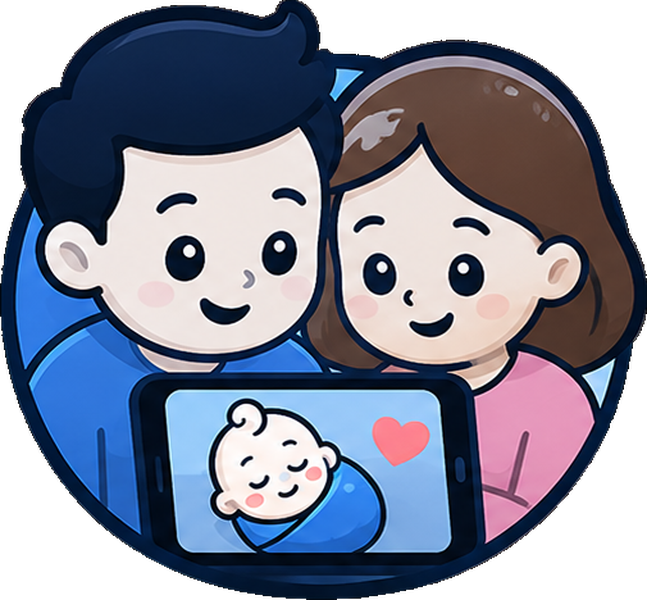
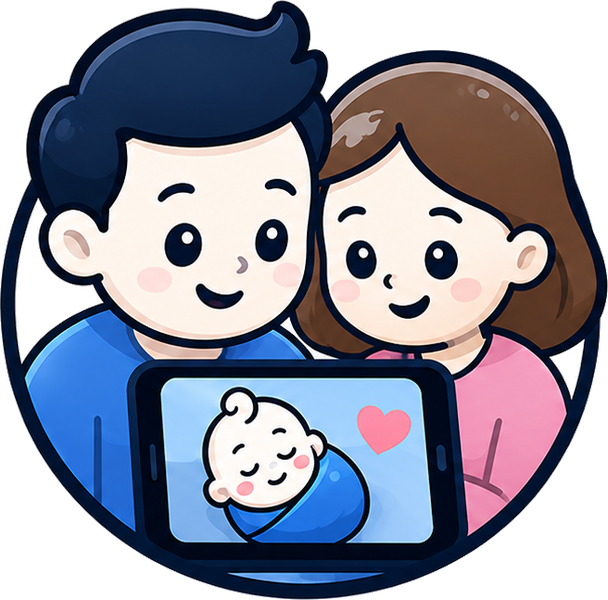
Use the cleaner uploaded parent-unit artwork with a proper cutout
Replace the parent-unit illustration with oudersiconhoofdpagina.png (the
sharper re-upload). Its background was near-white rather than solid black
like the earlier version, so it needed a different cutout pass: border
flood-fill for the outer background plus a second pass to close two
enclosed white pockets the flood-fill couldn't reach (between the mother's
hair and the circle outline, and beside the father's ear) — both confirmed
visually as background leaks, not illustration detail. Raw upload removed
now that it's baked into the processed asset. Blog screenshots refreshed.

Claude-Session: https://claude.ai/code/session_01EiNyr4JS9APEZG2E4fpLHW

diff --git a/serverless/index.html b/serverless/index.html
@@ -254,7 +254,7 @@
                     <p data-i18n="roleParentDesc">The monitor. Watch and listen from your own device.</p>
                   </div>
                   <div class="lp-illus parent" aria-hidden="true">
-                    <img class="lp-parent-img" src="assets/parentuniticon.png" alt="" width="647" height="600" />
+                    <img class="lp-parent-img" src="assets/parentuniticon.png" alt="" width="608" height="600" />
                   </div>
                 </div>
                 <button class="lp-btn primary full" id="pickParent" type="button"><span data-i18n="ctaConnectParent">Connect as parent</span>
